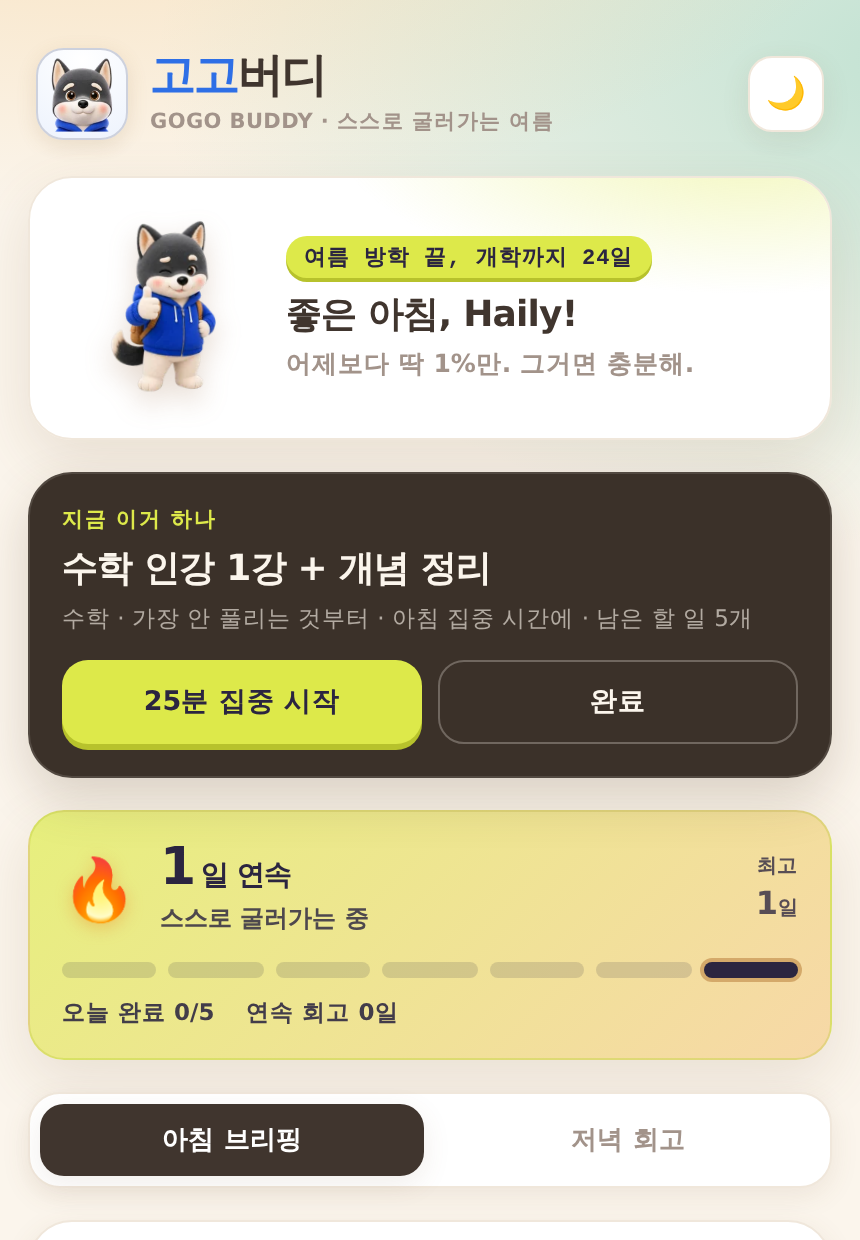
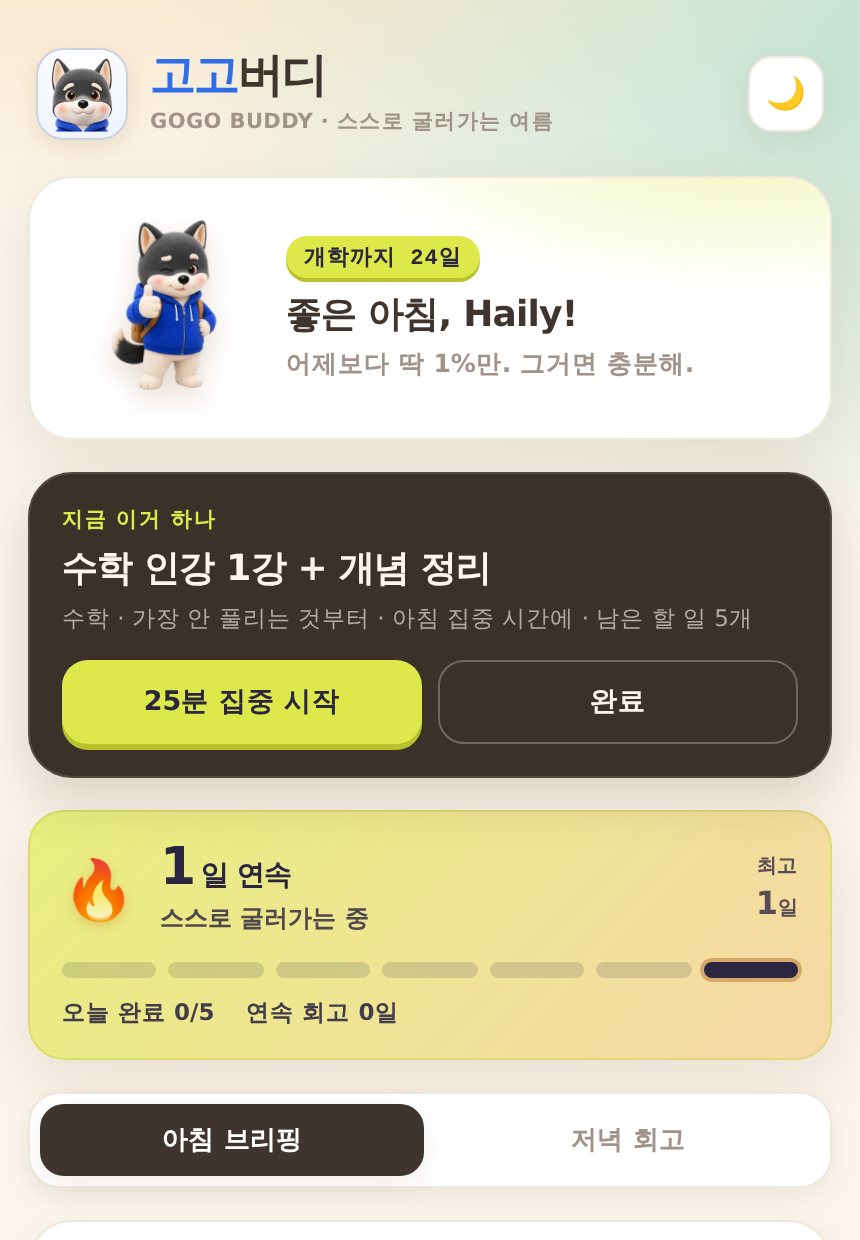
방학 배지 문구를 '개학까지 N일'로 단축
Claude-Session: https://claude.ai/code/session_01Aq5fCgQTr2L5UhckyziSbp

diff --git a/1_mission/6조/웃는돌(장경아)/4주차 과제 제출 폴더/haily-vacation-buddy.html b/1_mission/6조/웃는돌(장경아)/4주차 과제 제출 폴더/haily-vacation-buddy.html
@@ -480,7 +480,7 @@
   <div class="hero">
     <div class="mascot-wrap"><img id="mascot" title="콕 눌러봐!" alt="고고버디 마스코트" /></div>
     <div class="hi">
-      <span class="dday" id="dday">여름 방학 끝, 개학까지 27일</span>
+      <span class="dday" id="dday">개학까지 27일</span>
       <h1 id="greet">좋은 아침, Haily! </h1>
       <p id="greetSub">오늘도 한 칸씩 굴러가 보자.</p>
     </div>
@@ -747,7 +747,7 @@
     var nth = Math.round((today - VACATION_START) / DAY) + 1;      // 방학 며칠째
     var total = Math.round((VACATION_END - VACATION_START) / DAY) + 1;
     var ddayEl = document.getElementById("dday");
-    ddayEl.textContent = left > 1 ? "여름 방학 끝, 개학까지 " + left + "일"
+    ddayEl.textContent = left > 1 ? "개학까지 " + left + "일"
                         : left === 1 ? "방학 마지막 날"
                         : left === 0 ? "오늘 개학"
                         : "개학 후";
